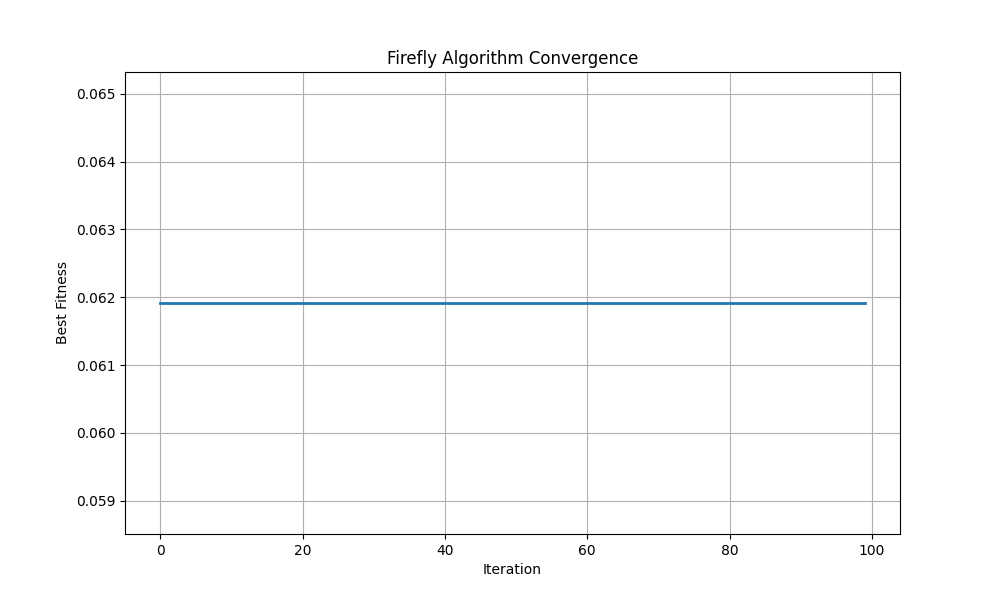
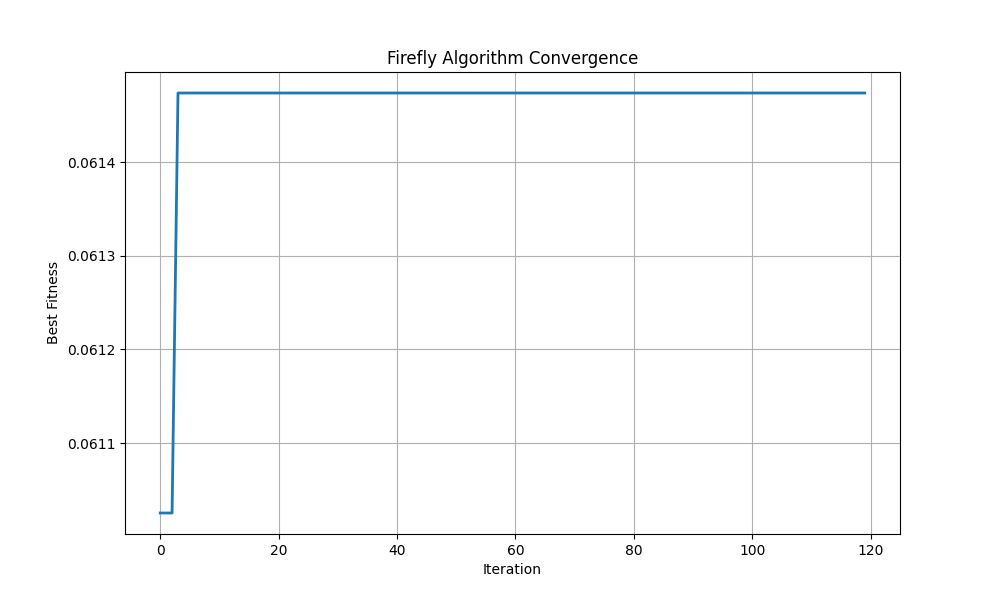
Final updates and results

diff --git a/train.py b/train.py
@@ -11,9 +11,11 @@ from sklearn.datasets import load_digits # sklearn is used to load the digits da
 from sklearn.model_selection import train_test_split 
 from sklearn.preprocessing import StandardScaler
 from sklearn.metrics import confusion_matrix
-
+# mainly sklearn is used for data preprocessing and evaluation metrics,
+# while matplotlib and seaborn are used for visualization.
 from src.neural_network import NeuralNetwork
 from src.firefly_algorithm import FireflyAlgorithm
+#src normally is used to import custom modules
 
 
 def one_hot_encode(y, num_classes):
@@ -58,7 +60,7 @@ fa = FireflyAlgorithm(
     alpha=0.8,
     beta0=1,
     gamma=0.3,
-    max_iterations=100,
+    max_iterations=120,
     neural_network=nn,
     X_train=X_train,
     y_train=y_train_onehot

diff --git a/src/train_model.py b/src/train_model.py
@@ -31,6 +31,7 @@ print(f"Testing samples: {X_test.shape[0]}")
 nn = NeuralNetwork()
 
 # Calculate total weights
+# formula for dimension=(input_size * hidden_layer_size + hidden_layer_size) + (hidden_layer_size * output_size + output_size)
 dimension = 64*32 + 32 + 32*10 + 10
 print(f"Total weights: {dimension}")
 

diff --git a/README.md b/README.md
@@ -14,27 +14,29 @@ The **Firefly Algorithm** is a nature-inspired optimization algorithm based on t
 - The movement is governed by the equation: `xi = xi + β * exp(-γ * r²) * (xj - xi) + α * ε`
   - `β`: attractiveness coefficient
   - `γ`: light absorption coefficient
-  - `α`: randomization parameter
+  - `α`: randomization parameter (controls exploration)
   - `r`: distance between fireflies
-  - `ε`: random noise
+  - `ε`: random noise 
 
 Through iterative movement and evaluation, the algorithm converges to optimal or near-optimal neural network weights without requiring gradient computation.
 
+#heuristic = enable someone or to discover or learn something for themselves
+#metaheuristic = they are problem-independent techniques that can be applied to a broad range of problems.
+
 ## Dataset
 
-The **UCI Digits Dataset** from scikit-learn is used for training and evaluation:
+The **UCI(University of California at Irvine) Digits Dataset** from scikit-learn is used for training and evaluation:
 
 - **Samples**: 1,797 grayscale images of handwritten digits (0-9)
 - **Image Size**: 8×8 pixels (64 features per sample)
 - **Classes**: 10 (digits 0 through 9)
 - **Split**: 80% training, 20% testing
-- **Preprocessing**: Feature normalization using StandardScaler
+- **Preprocessing**: Feature normalization using StandardScaler (to improve optimization performance)
 
 ## Project Structure
 
 ```
 Firefly_NN_Project/
-│
 ├── neural_network.py          # Neural network implementation (64-32-10 architecture)
 ├── firefly_algorithm.py       # Firefly Algorithm optimization engine
 ├── train.py                   # Main training pipeline with full visualizations
@@ -53,6 +55,9 @@ Firefly_NN_Project/
 - **firefly_algorithm.py**: Core implementation of the Firefly Algorithm. Manages population initialization, fitness evaluation, firefly movement dynamics, and convergence tracking.
 
 - **train.py**: Complete training pipeline that orchestrates data loading, neural network initialization, Firefly optimization, performance evaluation, and result visualization (confusion matrix, convergence curve, sample predictions).
+#confusion matrix = a table used to evaluate the performance of a classification model by comparing predicted labels with true labels. It shows true positives, true negatives, false positives, and false negatives for each class.
+#loss function = a mathematical function that quantifies the difference between predicted outputs and true labels. The goal of training is to minimize this loss, improving model performance.
+#weights = parameters of the neural network that are adjusted during training to minimize the loss function and improve model performance.
 
 - **load_digits.py**: Utility script for loading the UCI Digits dataset, applying normalization, and splitting into training/testing sets.
 
@@ -224,3 +229,8 @@ The Firefly Algorithm optimizes neural network weights using a swarm-based searc
 Due to the high dimensionality of the neural network parameter space (2410 weights), optimization may converge slowly and may not reach the same accuracy as gradient-based methods like backpropagation.
 
 Increasing population size or iterations may improve results but increases computation time.
+
+i have saved a file name Figure_1.png and have to push it to the repository 
+git add Figure_1.png
+git commit -m "Add convergence curve visualization"
+git push origin main
